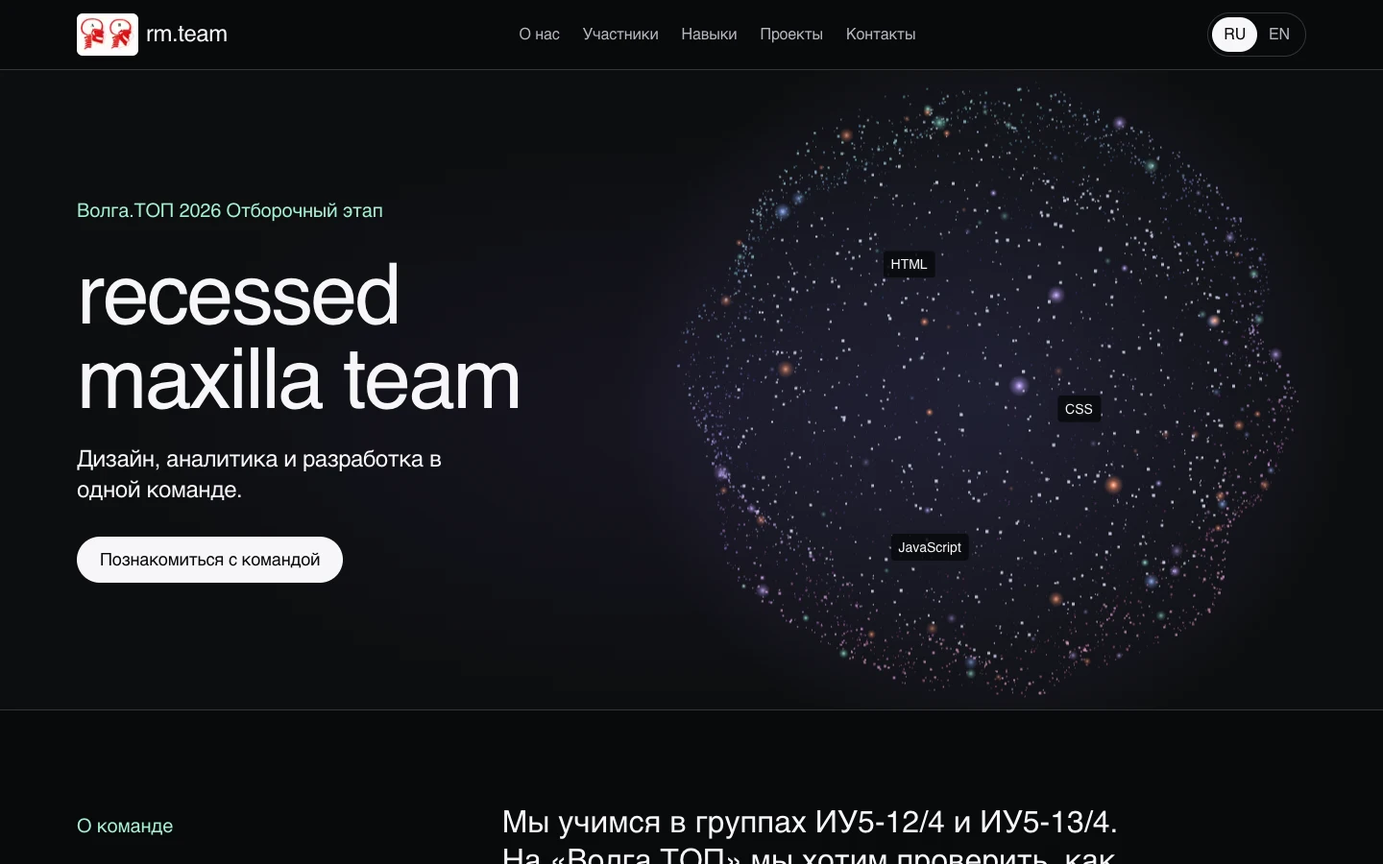
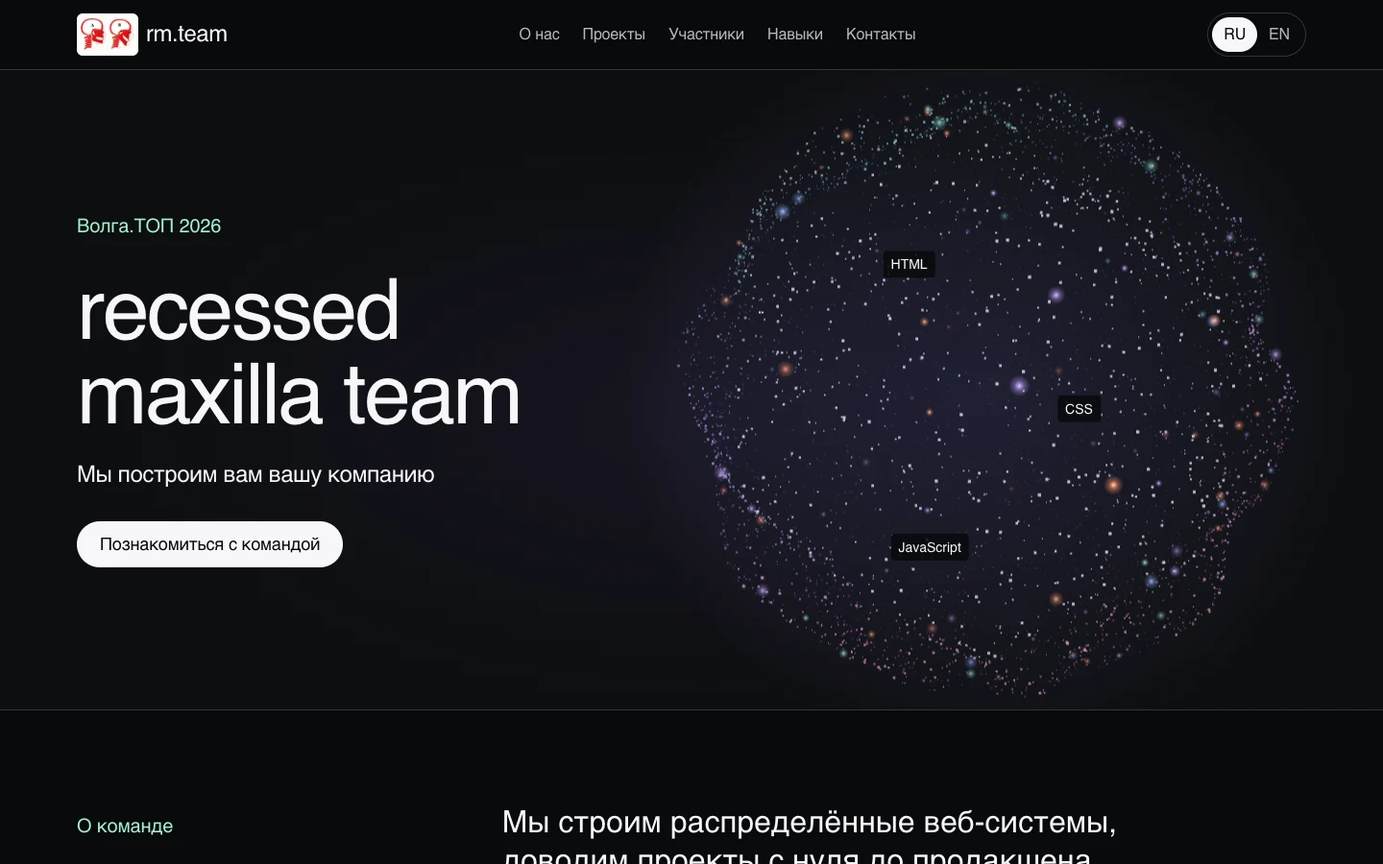
docs: prepare the team profile for Volga.TOP submission

diff --git a/frontend/app/[lang]/page.tsx b/frontend/app/[lang]/page.tsx
@@ -109,7 +109,7 @@ export default async function Home({ params }: PageProps<"/[lang]">) {
         >
           <ParticleSphere labels={getSphereLabels()} />
           <div className="shell pointer-events-none relative flex min-h-[36rem] flex-col items-start pt-12 pb-44 sm:min-h-[40rem] md:justify-center md:py-24 [&>*]:pointer-events-auto lg:min-h-[clamp(38rem,74svh,54rem)]">
-            <p className="meta mb-7 text-mint">
+            <p className="section-label mb-7 text-mint">
               {team.event[lang]} {team.year}
             </p>
             <h1 id="hero-title" lang="en" className="hero-title">
@@ -129,7 +129,7 @@ export default async function Home({ params }: PageProps<"/[lang]">) {
           className="border-b border-line"
         >
           <div className="shell section-space grid items-baseline gap-6 md:grid-cols-[1fr_2fr]">
-            <h2 id="about-title" className="meta text-mint">
+            <h2 id="about-title" className="section-label text-mint">
               {t.about}
             </h2>
             <div className="intro max-w-[38ch] space-y-6">
@@ -155,7 +155,7 @@ export default async function Home({ params }: PageProps<"/[lang]">) {
                   className="overflow-hidden rounded-2xl border border-line bg-panel"
                 >
                   <div className="flex flex-col items-start justify-center p-6 md:p-10">
-                    <span className="meta text-lilac">{t[project.kind]}</span>
+                    <span className="section-label text-lilac">{t[project.kind]}</span>
                     <h3 className="card-title mt-3">
                       {project.title[lang]}
                     </h3>
@@ -203,7 +203,7 @@ export default async function Home({ params }: PageProps<"/[lang]">) {
                   key={category}
                   className="grid gap-3 py-6 sm:grid-cols-[9rem_1fr]"
                 >
-                  <dt className="meta text-mint">{category}</dt>
+                  <dt className="section-label text-mint">{category}</dt>
                   <dd>
                     <ul className="body-copy flex flex-wrap gap-x-6 gap-y-1">
                       {items.map((item) => (

diff --git a/frontend/app/globals.css b/frontend/app/globals.css
@@ -51,7 +51,7 @@
   .intro {
     @apply text-xl leading-[1.4] md:text-[2rem] md:leading-[1.25];
   }
-  .meta {
+  .section-label {
     @apply text-base leading-[1.375] font-medium tracking-[-0.01em] md:text-lg md:leading-[1.33] xl:text-xl xl:leading-[1.5];
   }
   .body-copy, .pill {

diff --git a/README.md b/README.md
@@ -6,16 +6,18 @@
 
 | ФИО | Учебная группа | Роль | Профиль GitVerse | Личный вклад |
 | --- | --- | --- | --- | --- |
-| Стукалов Артём Андреевич | ИУ5-12/4 | Designer, Technical Writer | Добавить ссылку | Участие во frontend-разработке, документация; отвечает за подготовку архива ИИ-сессии |
-| Стёпкин Артемий Юрьевич | ИУ5-12/4 | Team Lead, Tech Lead | Добавить ссылку | Руководство командой и техническим направлением |
-| Зеленко Артур Олегович | ИУ5-12/4 | Frontend Developer | Добавить ссылку | Frontend-разработка |
-| Верховых Егор Дмитриевич | ИУ5-13/4 | CEO, Analyst | Добавить ссылку | Аналитика и креативное направление; проверяет README |
+| Стукалов Артём Андреевич | ИУ5-12/4 | Designer, Technical Writer | **TODO** — добавить профиль | Подготовил README, добавил Dobropay в портфолио и исправил сборку Docker при отсутствии каталога `public`. [README](https://github.com/akkne/team-onboarding-page/pull/3) · [Портфолио](https://github.com/akkne/team-onboarding-page/pull/7) · [Docker](https://github.com/akkne/team-onboarding-page/pull/20) |
+| Стёпкин Артемий Юрьевич | ИУ5-12/4 | Team Lead, Tech Lead | [akkne](https://gitverse.ru/akkne) | Реализовал двуязычную визитку и интерактивную сферу, оптимизировал отрисовку частиц и связал подписи с данными о навыках. [Визитка](https://github.com/akkne/team-onboarding-page/pull/5) · [Сфера](https://github.com/akkne/team-onboarding-page/pull/16) |
+| Зеленко Артур Олегович | ИУ5-12/4 | Frontend Developer | [rtz_99999](https://gitverse.ru/rtz_99999) | Подготовил спецификацию оформления экранов и компонентов. [Изменения в документации](https://github.com/akkne/team-onboarding-page/pull/4) |
+| Верховых Егор Дмитриевич | ИУ5-13/4 | CEO, Analyst | **TODO** — добавить профиль | Отвечает за аналитику и проверку README. **TODO** — указать результат работы Егора и ссылку на изменение из его учётной записи. |
 
-До сдачи добавьте ссылки на профили участников в GitVerse и конкретизируйте личный вклад каждого результатами работы над проектом. Условия задания требуют, чтобы вклад участников был виден в истории репозитория через их собственные учётные записи.
+**TODO** — перед сдачей проверить, что в истории репозитория на российской площадке виден вклад каждого участника из его собственной учётной записи.
 
 ## 2. Реализованное решение
 
 Страница открывается на русском по адресу `/ru` и на английском по адресу `/en`. Корневой адрес ведёт на русскую версию. Якорное меню ведёт к разделам визитки, а переключатель RU / EN работает и при отключённом JavaScript.
+
+Через меню можно перейти к рассказу о команде, проектам, карточкам участников, навыкам и контактам. Кнопка в карточке проекта открывает его репозиторий. Сферу на первом экране можно вращать перетаскиванием.
 
 Состав команды, тексты, навыки, портфолио и адрес для связи команды редактируются в [frontend/data/team.ts](frontend/data/team.ts). Для переводимых полей заполните `ru` и `en`. Чтобы опубликовать работу, добавьте в `team.projects` название, описание и тип `project` или `idea`; ссылку можно указать при наличии. Раздел портфолио и его пункт меню появляются с первой работой. Первая работа — сама визитка. Поле `team.contact` задаёт адрес для связи в подвале; сейчас оно ведёт в GitHub Issues проекта.
 
@@ -25,9 +27,9 @@
 
 | Часть | Технологии |
 | --- | --- |
-| Язык | TypeScript |
-| Интерфейс | Next.js 16.4.6, React 19 |
-| Стили | Tailwind CSS 4, PostCSS, типографика по референсу Solana |
+| Язык | TypeScript 5.9.3 |
+| Интерфейс | Next.js 16.4.6, React 19.3.1 |
+| Стили | Tailwind CSS 4.3.5, PostCSS 8.5.33 |
 | Среда разработки | Node.js 22, npm |
 | Проверки | ESLint, TypeScript, сборка Next.js |
 | Контейнеризация | Docker, Docker Compose |
@@ -93,43 +95,47 @@ docker compose down
 │   ├── app/
 │   │   ├── [lang]/          # Русская и английская версии страницы
 │   │   └── globals.css      # Общие стили
+│   ├── components/          # Карточка участника, эмблема и сфера
+│   ├── data/                # Данные команды, переводы и подписи сферы
 │   ├── Dockerfile
 │   ├── package.json
 │   └── package-lock.json
 ├── infra/README.md           # Инструкция по Docker Compose
-├── tests/                    # Каталог тестов; тесты пока не добавлены
+├── tests/                    # Каталог для тестов
 ├── compose.yaml
 └── README.md
 ```
 
 ## 7. Использование искусственного интеллекта
 
-Для подготовки этого README использовался ChatGPT Codex (GPT-6). ИИ помог сверить структуру README с отборочным заданием и подготовить черновик на основе текущих файлов репозитория.
-
-| Участник | Инструмент и модель | Задача и запросы | Результат | Проверка и доработка | Материал сессии |
+| Участник | Инструмент и модель | Задача и краткое содержание запросов | Что получено | Как проверено и доработано | Файл в архиве |
 | --- | --- | --- | --- | --- | --- |
-| Стукалов Артём Андреевич | ChatGPT Codex, GPT-6 | Сверить README с требованиями задания и описать репозиторий | Черновик README | Верховых Егор Дмитриевич проверяет текст; команда сверяет сведения с проектом и вносит правки | Добавить экспорт сессии в ai-sessions.zip |
-| Редизайн по запросу команды | ChatGPT Codex (GPT-6), ImageGen | Переработать систему и главную по референсу Solana, сохранить разделы отбора | Компоненты, токены, графика первого экрана, описание системы и черновики текстов RU/EN | Сборка и браузерная проверка. Участникам предстоит утвердить девиз, мотивацию и навыки | Включить сессию редизайна в архив |
+| Стукалов Артём | ChatGPT Codex, GPT-6 | Сверить README с ТЗ и описать запуск проекта по файлам репозитория | Черновик README с составом команды, стеком и командами запуска | В этой сессии команды запуска не выполнялись. **TODO** — Егору указать результат редакторской проверки. | **TODO** — указать путь к экспорту сессии README |
+| Стёпкин Артемий | ChatGPT Codex, GPT-6 и ImageGen | Переработать главную страницу на русском и английском, сохранить обязательные разделы, подготовить графику первого экрана | Двуязычные компоненты, стили, графика и черновики текстов | Проверены сборка, переключатель языков и навигация с клавиатуры на экранах 360, 768 и 1440 px. [Проверки редизайна](https://github.com/akkne/team-onboarding-page/pull/6) | **TODO** — указать путь к материалам сессии редизайна |
 
-В сессии подготовки README изменялся только текст документа; код и интерфейс приложения не менялись. Приложение, проверки и Docker-сборка во время подготовки README не запускались. Стукалов Артём Андреевич подготовит архив ai-sessions.zip и добавит его в корень репозитория. Перед публикацией команда проверит архив и удалит из него пароли, ключи доступа, персональные и конфиденциальные данные.
+ИИ помог подготовить текст README, вёрстку и графику визитки. Артём просил описать фактический порядок запуска, Артемий — собрать обе языковые версии из общих компонентов. Черновые формулировки о команде потребовали правки. Участники предложили собственный текст о работе над проектами и знакомстве в университете, а Артемий вернул эти формулировки на сайт и обновил английский перевод. [Правка раздела «О нас»](https://github.com/akkne/team-onboarding-page/pull/28)
+
+**TODO** — Стукалову Артёму собрать материалы сессий, удалить из них пароли, ключи доступа, персональные и конфиденциальные данные, затем добавить `ai-sessions.zip` в корень репозитория. **TODO** — после проверки архива подтвердить очистку и дать здесь ссылку на файл.
 
 ## 8. Демонстрация
 
-- Главная на [компьютере, RU](docs/screenshots/home-ru.webp) и на [телефоне, EN](docs/screenshots/home-en-mobile.webp).
-- Видео команды продолжительностью 1–3 минуты: ссылка пока не опубликована.
-- Развёрнутый сайт: публичный адрес пока не указан.
-- Исходный код: [репозиторий на GitHub](https://github.com/akkne/team-onboarding-page).
+| Главная страница на компьютере (RU) | Главная страница на телефоне (EN) |
+| --- | --- |
+| ![Визитка команды на русском языке](docs/screenshots/home-ru.webp) | ![Визитка команды на английском языке](docs/screenshots/home-en-mobile.webp) |
 
-В задании указана российская система контроля версий. Текущий репозиторий размещён на GitHub; перенос или зеркало на российской платформе пока не указаны.
+- **TODO** — добавить доступную жюри ссылку на видео команды продолжительностью 1–3 минуты.
+- **TODO** — если команда заявляет развёртывание, добавить публичную ссылку на сайт.
+- Исходный код и история разработки доступны в [репозитории GitHub](https://github.com/akkne/team-onboarding-page).
+- **TODO** — добавить ссылку на репозиторий проекта в российской системе контроля версий.
 
 ## 9. Дополнительные задания
 
 ### Контейнеризация
 
-Проект собирается и запускается через Docker Compose командами из раздела «Установка и запуск». В репозитории есть Dockerfile и compose.yaml.
+Из корня репозитория выполните `docker compose up -d --build frontend` и откройте [сайт на порту 3000](http://localhost:3000). Файлы сборки — [Dockerfile](frontend/Dockerfile), [.dockerignore](frontend/.dockerignore) и [compose.yaml](compose.yaml).
 
 ### Развёртывание
 
-Публичный адрес сайта и сведения об облачной инфраструктуре или сервере команды пока не указаны.
+**TODO** — для заявленного развёртывания описать российскую облачную площадку или собственный сервер команды и шаги выкладки. Если заявляется HTTPS, указать, как проверены сертификат и перенаправление с HTTP.
 
 Команды проверки и правила работы с ветками описаны в [Git-процессе](docs/git/README.md).

diff --git a/docs/design.md b/docs/design.md
@@ -1,6 +1,6 @@
 # Визуальная спецификация визитки
 
-На первом экране посетитель видит название команды, девиз и переход к участникам. Название команды выровнено по левому краю. На фоне вращается сфера из светящихся частиц. [Референс первого экрана](https://livel-agency.com/)
+На первом экране посетитель видит название команды, девиз и переход к участникам. Название команды выровнено по левому краю. На фоне вращается сфера из светящихся частиц.
 
 ## Цвет и типографика
 
@@ -14,7 +14,7 @@
 | `lilac` | `#dfcdf5` | Подвал и роли |
 | `mint` | `#a4f1cf` | Подписи категорий и состояние наведения основной кнопки |
 
-Типографика повторяет шкалу главной страницы Solana при ширине до 768 px, от 768 px и от 1280 px. Главный заголовок использует размеры 40, 56 и 88 px с интервалом −0,03 em, заголовки основных разделов используют 32, 40 и 64 px с интервалом −0,04 em. Короткие подписи события, раздела «О команде» и категорий используют 16, 18 и 20 px, начертание Medium и интервал −0,01 em. Они сохраняют регистр исходного текста. Браузер использует установленный ABC Diatype или выбирает Helvetica, Arial и далее системный гротеск. [Общие стили визитки](../frontend/app/globals.css) · [Референс Solana](https://solana.com/ru)
+Размеры текста меняются на двух контрольных точках — 768 и 1280 px. Главный заголовок использует размеры 40, 56 и 88 px с интервалом −0,03 em, заголовки основных разделов используют 32, 40 и 64 px с интервалом −0,04 em. Короткие подписи события, раздела «О команде» и категорий используют 16, 18 и 20 px, начертание Medium и интервал −0,01 em. Они сохраняют регистр исходного текста. Браузер использует установленный ABC Diatype или выбирает Helvetica, Arial и далее системный гротеск. [Общие стили визитки](../frontend/app/globals.css)
 
 ## Композиция
 

diff --git a/docs/decisions/README.md b/docs/decisions/README.md
@@ -10,7 +10,7 @@
 | [0004. Использование дизайн-системы Astryx для сайта-визитки](0004-astryx-design-system.md) | 2026-11-25 |
 | [0005. Публикация данных команды](0005-team-content.md) | 2026-11-25 |
 | [0006. Синяя палитра визитки](0006-blue-palette.md) | 2026-11-25 |
-| [0007. Визуальная система по референсу Solana](0007-solana-inspired-design.md) | 2026-11-25 |
+| [0007. Визуальная система визитки](0007-team-visual-system.md) | 2026-11-25 |
 | [0008. Общий контакт и первая работа в портфолио](0008-team-contact-and-portfolio.md) | 2026-11-25 |
 | [0009. Логотип команды в шапке и портфолио](0009-team-logo.md) | 2026-11-26 |
 | [0010. Сфера из частиц на первом экране](0010-hero-particle-sphere.md) | 2026-11-26 |
@@ -23,12 +23,13 @@
 | [0017. Текстовые карточки проектов без изображений](0017-project-cards-without-images.md) | 2026-11-26 |
 | [0018. Четыре группы навыков команды](0018-compact-skill-groups.md) | 2026-11-26 |
 | [0019. Уточнение навыков Backend](0019-backend-testing-skills.md) | 2026-11-26 |
-| [0020. Типографика главной страницы Solana](0020-solana-typography.md) | 2026-11-26 |
+| [0020. Адаптивная типографика главной страницы](0020-responsive-typography.md) | 2026-11-26 |
 | [0021. Роли и достижения в карточках участников](0021-member-achievements.md) | 2026-11-26 |
 | [0022. Теги навыков в карточках участников](0022-member-skill-tags.md) | 2026-11-26 |
 | [0023. Девиз и подпись события на первом экране](0023-hero-copy.md) | 2026-11-26 |
 | [0024. Проекты перед участниками и навыками](0024-projects-first.md) | 2026-11-26 |
 | [0025. Рассказ о работе команды и знакомстве в университете](0025-about-team.md) | 2026-11-26 |
 | [0026. Авторский текст раздела «О нас»](0026-about-wording.md) | 2026-11-26 |
+| [0027. Описание визуальной системы визитки](0027-design-documentation.md) | 2026-11-26 |
 
 Скопируй [шаблон записи](template.md) в файл `NNNN-краткое-название.md` и добавь его в таблицу.

diff --git a/docs/design-system.md b/docs/design-system.md
@@ -3,7 +3,7 @@
 Единая тёмная тема объединяет русскую и английскую версии. Цвета, типографика, поля и общие классы компонентов заданы в [globals.css](../frontend/app/globals.css). [Визуальная спецификация](design.md) описывает палитру и раскладку всех разделов.
 
 - `.shell` задаёт одинаковые поля шапки, секций и подвала. `.section-space` определяет вертикальные интервалы, `.section-title` — иерархию заголовков.
-- `.meta` задаёт пропорциональный шрифт для подписей. Событие и этап разделяет пробел, заголовок «О команде» начинается с текста.
+- `.section-label` задаёт пропорциональный шрифт для подписей. Событие и этап разделяет пробел, заголовок «О команде» начинается с текста.
 - `.pill` оформляет основные действия и ссылки в карточках проектов. `.text-link` сохраняет подчёркивание у вторичных текстовых ссылок. Якоря меню получают контрастный текст при наведении. Видимый контур фокуса отделён от ссылки зазором.
 - Активный язык получает светлую заливку и `aria-current="page"`. Обе версии открываются обычными ссылками. Первая ссылка при обходе с клавиатуры ведёт к основному содержимому.
 - Навыки участников оформляются классом `.tag` и остаются элементами списка. Эмблемы рядом с названием и аватары при подписанном имени скрыты от экранного диктора.

diff --git a/docs/decisions/0010-hero-particle-sphere.md b/docs/decisions/0010-hero-particle-sphere.md
@@ -2,8 +2,8 @@
 
 Дата принятия — 2026-11-26.
 
-Команда выбрала [первый экран livel agency](https://livel-agency.com/) как референс для движения и композиции. Название команды, событие, девиз и переход к участникам сохраняются.
+Команда выбрала вращающуюся сферу из частиц для первого экрана. Название команды, событие, девиз и переход к участникам сохраняются.
 
 Клиентский компонент проецирует вращающееся облако точек на Canvas 2D. Сцена рисуется локально средствами браузера. Вне видимой области и в фоновой вкладке анимация приостанавливается. При уменьшенном движении сфера остаётся неподвижной. До первого кадра виден локальный WebP.
 
-Подписи на поверхности берутся из отдельного [списка переводов](../../frontend/data/sphere-labels.ts). Пустой список оставляет сферу без подписей. Решение обновляет оформление первого экрана из [решения 0007](0007-solana-inspired-design.md).
+Подписи на поверхности берутся из отдельного [списка переводов](../../frontend/data/sphere-labels.ts). Пустой список оставляет сферу без подписей. Решение обновляет оформление первого экрана из [решения 0007](0007-team-visual-system.md).

diff --git a/docs/decisions/0020-responsive-typography.md b/docs/decisions/0020-responsive-typography.md
@@ -1,0 +1,9 @@
+# 0020. Адаптивная типографика главной страницы
+
+Дата принятия 26 ноября 2026 года.
+
+**Контекст.** Прописные моноширинные подписи события и раздела «О команде» занимали много места из-за широких межбуквенных интервалов.
+
+**Решение.** На обеих языковых версиях использовать общую адаптивную шкалу заголовков и подписей. Для коротких подписей сохранить регистр текста, использовать пропорциональный шрифт среднего начертания и убрать декоративные чёрточки. Размеры и интервалы заданы в [общих стилях](../../frontend/app/globals.css).
+
+**Последствия.** На устройстве без ABC Diatype браузер выбирает Helvetica, Arial или системный гротеск. Для поставки ABC Diatype всем посетителям потребуется веб-лицензия проекта. [Условия Dinamo](https://abcdinamo.com/licenses) · [Визуальная спецификация](../design.md)

diff --git a/docs/decisions/0004-astryx-design-system.md b/docs/decisions/0004-astryx-design-system.md
@@ -1,6 +1,6 @@
 # 0004. Использование дизайн-системы Astryx для сайта-визитки
 
-Дата принятия — 2026-11-25. Заменено [решением 0007](0007-solana-inspired-design.md).
+Дата принятия — 2026-11-25. Заменено [решением 0007](0007-team-visual-system.md).
 
 **Контекст.** Для сборки одностраничного сайта-визитки команды recessed maxilla team ([карта экранов](../screens.md), [ведомость компонентов](../components.md)) нужна готовая дизайн-система, совместимая с Next.js 16 (App Router), React 19, TypeScript 5, Tailwind CSS 4, системными светлой/тёмной темами и работой базовых сценариев без JavaScript.
 

diff --git a/docs/decisions/0006-blue-palette.md b/docs/decisions/0006-blue-palette.md
@@ -1,5 +1,5 @@
 # 0006. Синяя палитра визитки
 
-Дата принятия — 2026-11-25. Заменено [решением 0007](0007-solana-inspired-design.md).
+Дата принятия — 2026-11-25. Заменено [решением 0007](0007-team-visual-system.md).
 
 По запросу команды внешний фон визитки стал синим. Содержимое лежит на отдельной поверхности, чтобы длинные тексты и карточки оставались читаемыми. Шапка, ссылки и выбранный язык используют акценты из темы Astryx. Системная тёмная тема использует собственные значения тех же токенов.

diff --git a/docs/decisions/0027-design-documentation.md b/docs/decisions/0027-design-documentation.md
@@ -1,0 +1,5 @@
+# 0027. Описание визуальной системы визитки
+
+Дата принятия — 2026-11-26.
+
+В [визуальной спецификации](../design.md) и журнале решений описываем оформление через свойства самой визитки — размеры заголовков, расположение элементов и поведение сферы. Для подписей события, раздела и категорий в обеих локалях используем класс `.section-label`. Его начертание и размеры заданы в [общей таблице стилей](../../frontend/app/globals.css).

diff --git a/docs/decisions/0007-team-visual-system.md b/docs/decisions/0007-team-visual-system.md
@@ -1,4 +1,4 @@
-# 0007. Визуальная система по референсу Solana
+# 0007. Визуальная система визитки
 
 Дата принятия — 2026-11-25.
 
